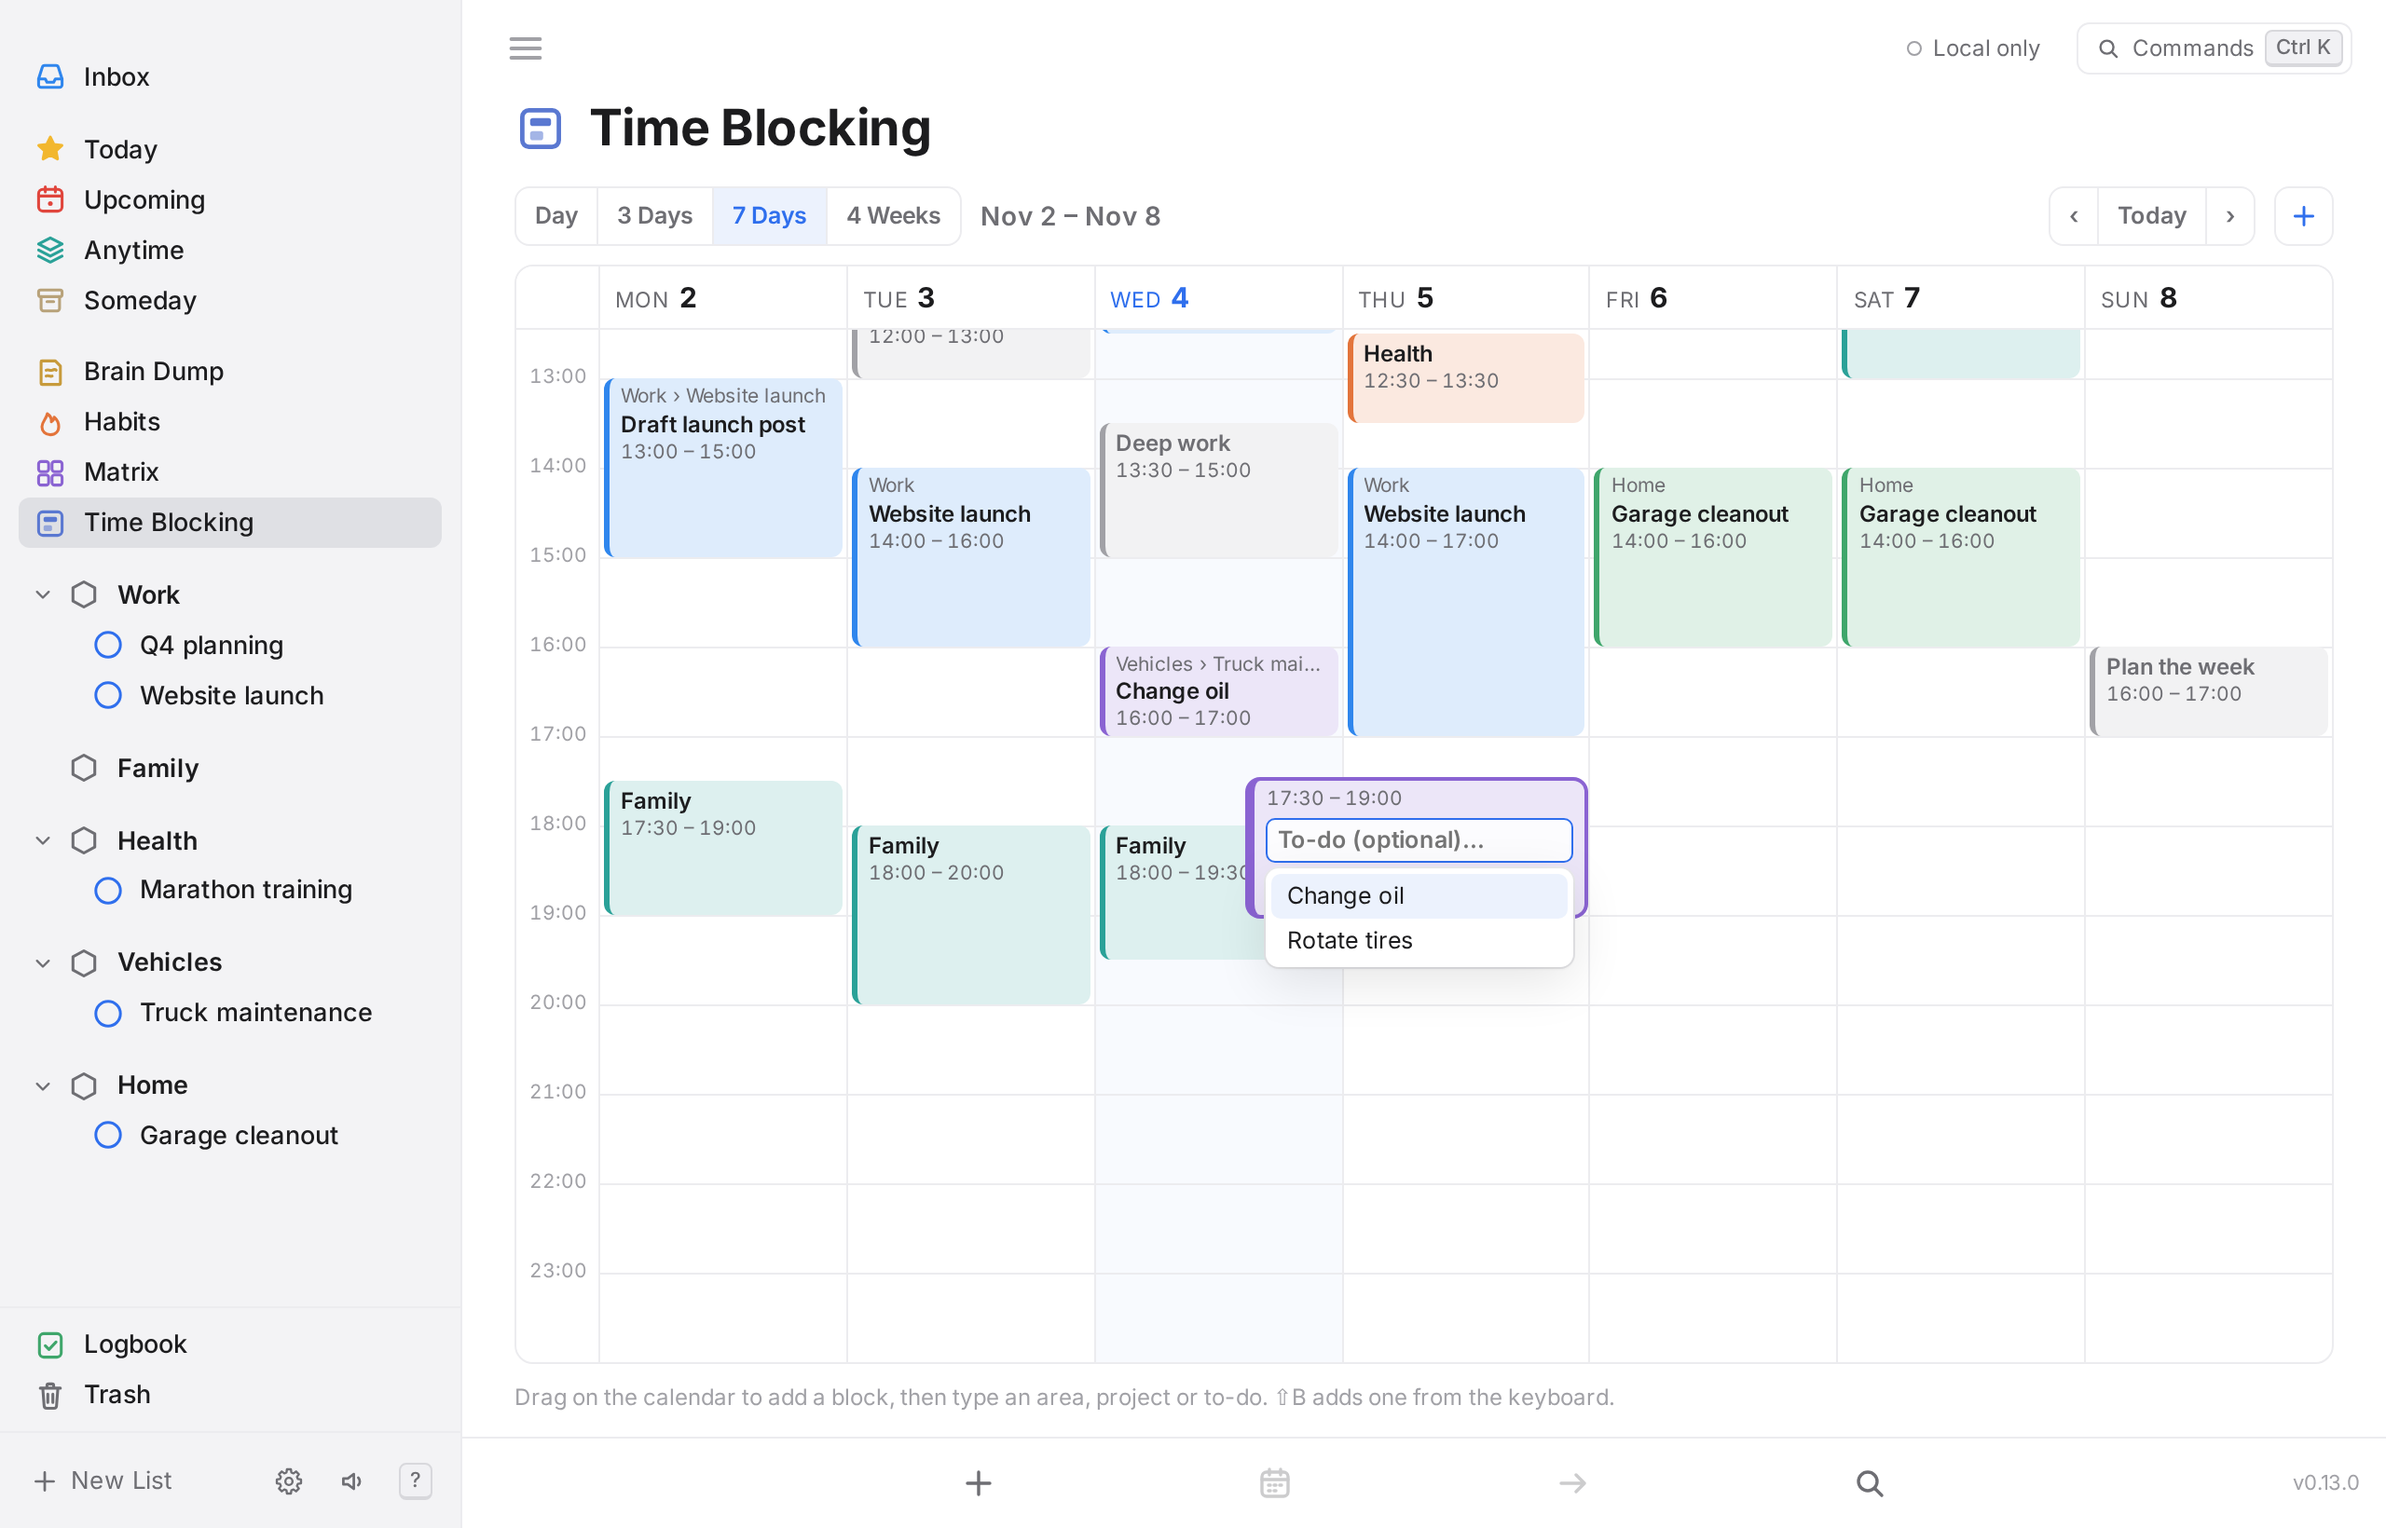
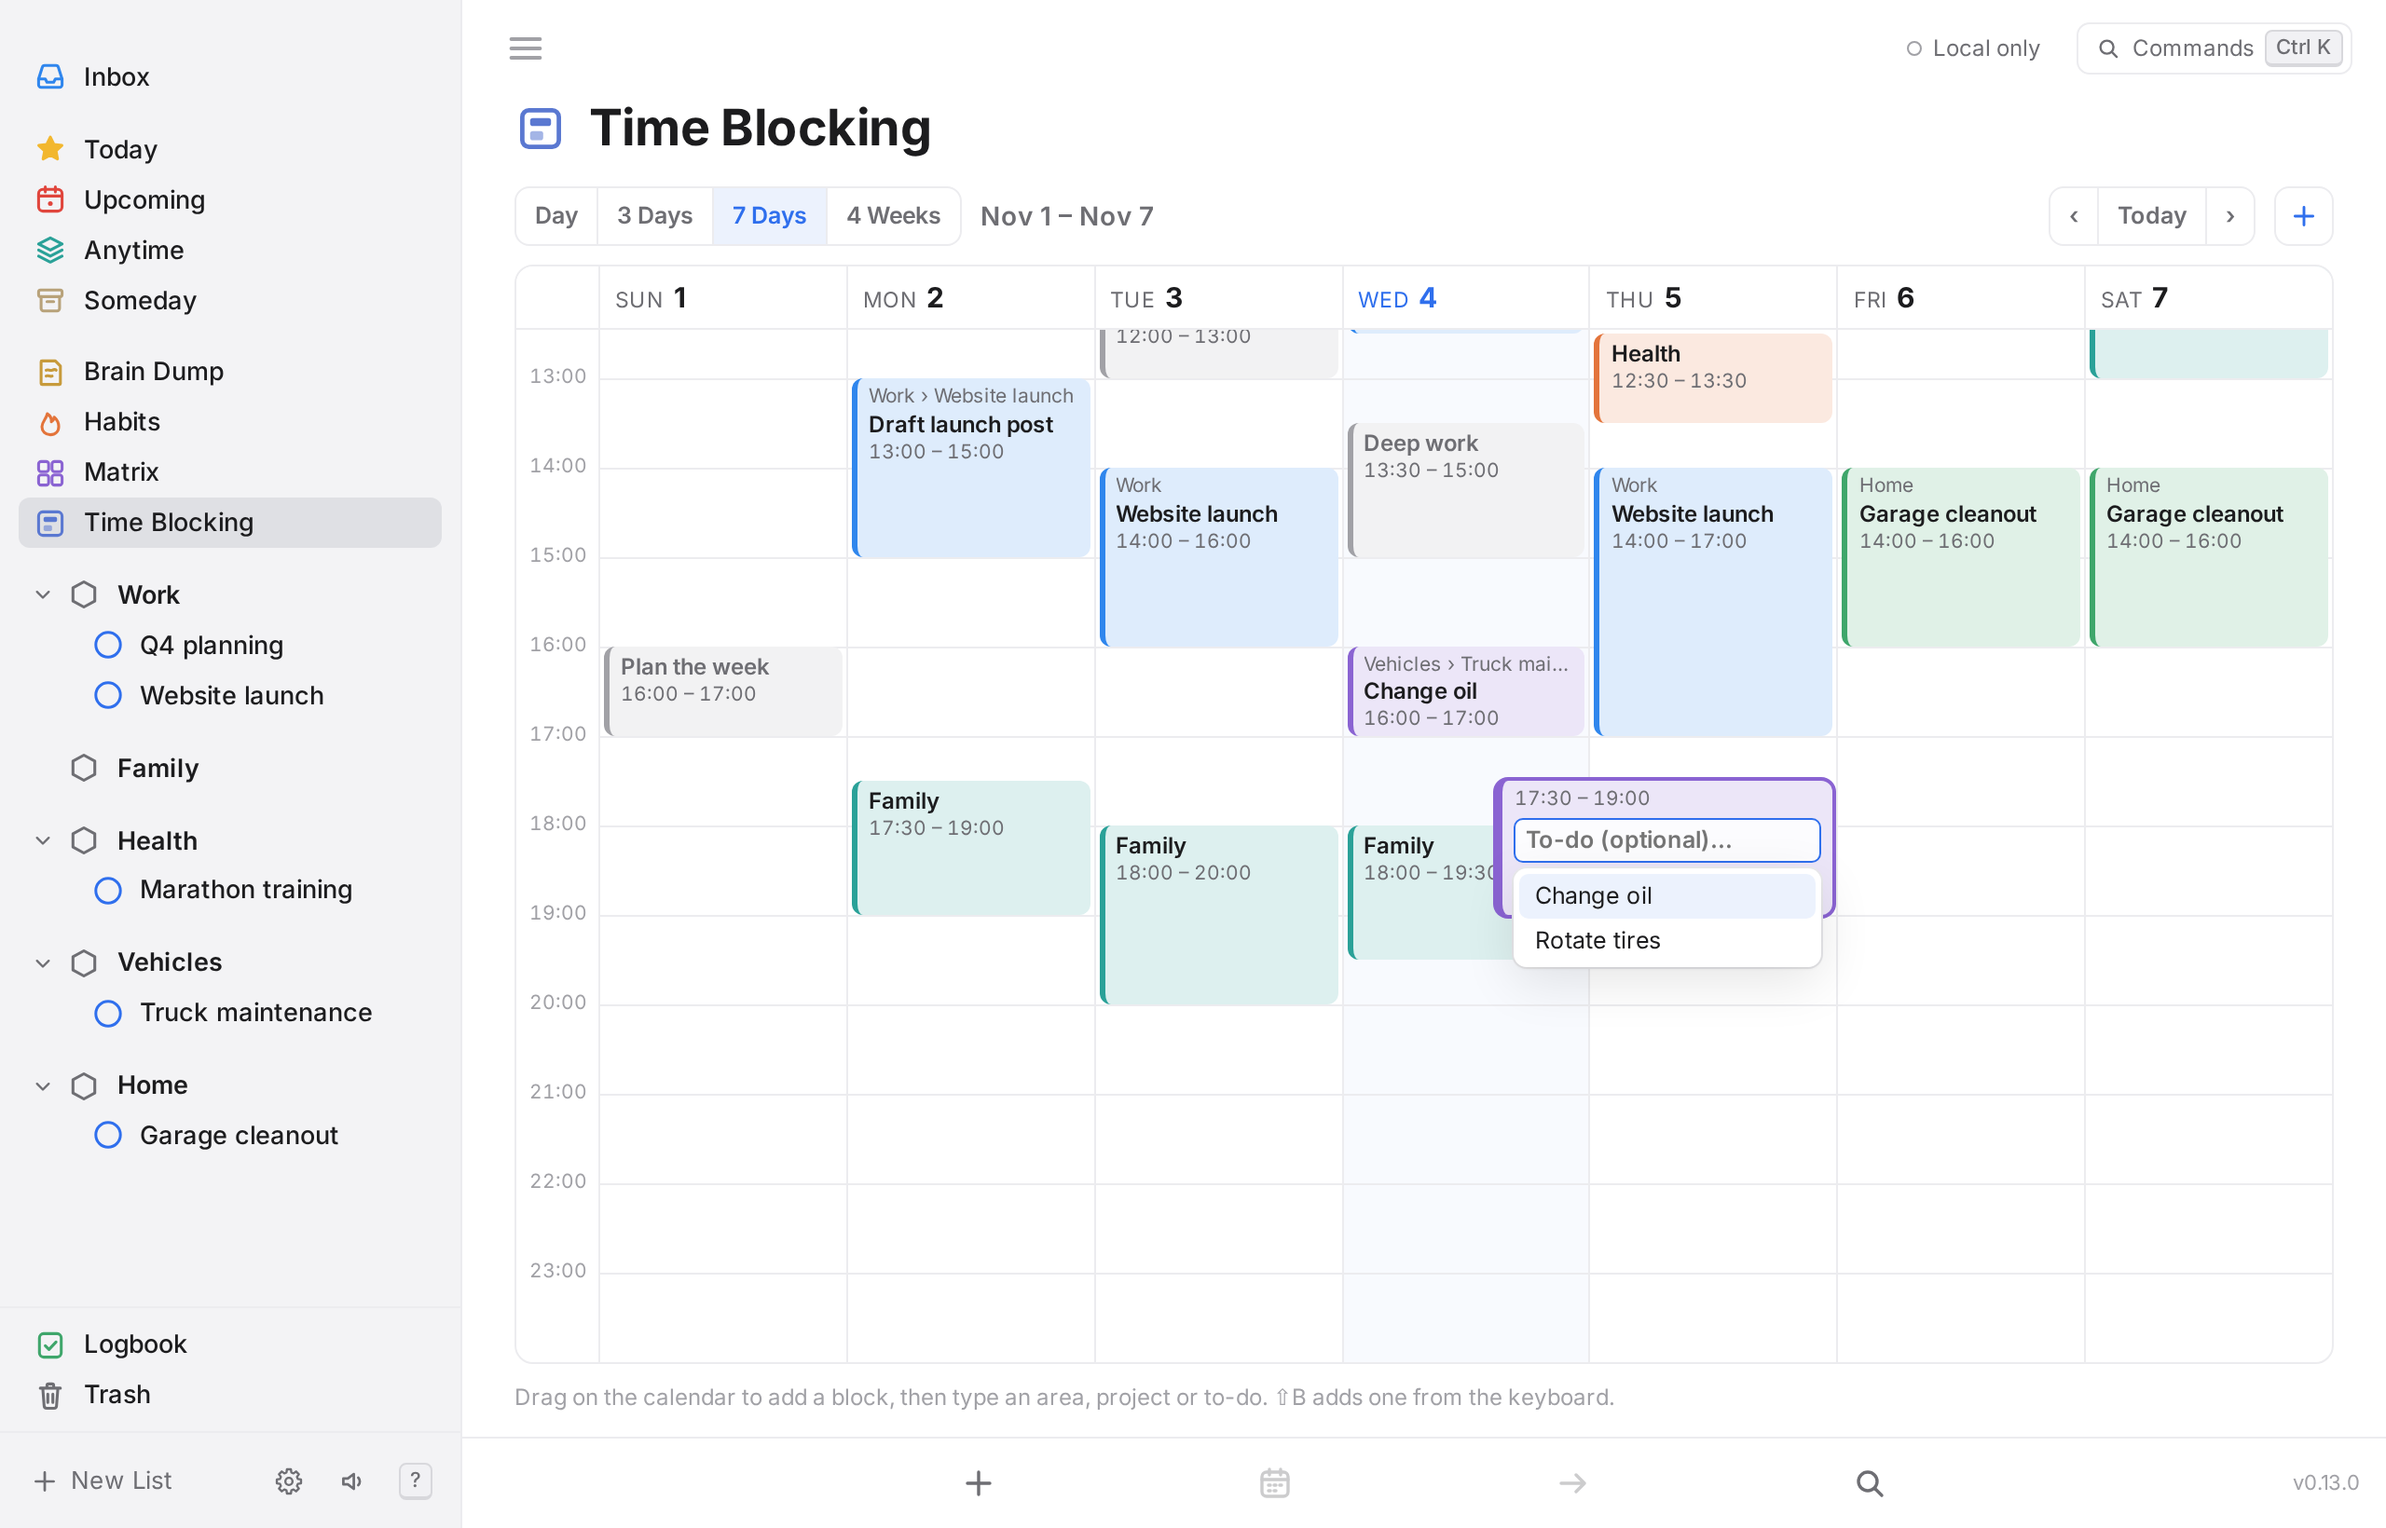
Time Blocking: weeks start on Sunday
7 days and 4 weeks start on the Sunday of the week shown, with Sunday in
the left column; Day and 3 days still start on the chosen day. Screenshots
updated.

diff --git a/src/lib/timeblocks.test.ts b/src/lib/timeblocks.test.ts
@@ -64,15 +64,19 @@ describe('times', () => {
 });
 
 describe('ranges', () => {
-  it('starts day, 3 and 7 days at the anchor and 4 weeks on its Monday', () => {
+  it('starts day and 3 days at the anchor, and 7 days and 4 weeks on its Sunday', () => {
     expect(rangeDays('3day', '2026-10-31')).toEqual(['2026-10-31', '2026-11-01', '2026-11-02']);
+    const week = rangeDays('week', '2026-10-28'); // a Wednesday
+    expect([week[0], week[6]]).toEqual(['2026-10-25', '2026-10-31']);
+    expect(rangeDays('week', '2026-10-25')[0]).toBe('2026-10-25'); // a Sunday stays put
     const four = rangeDays('4week', '2026-10-31'); // a Saturday
-    expect(four[0]).toBe('2026-10-26');
+    expect(four[0]).toBe('2026-10-25');
     expect(four).toHaveLength(28);
   });
 
   it('steps by the length of the range', () => {
     expect(stepAnchor('week', '2026-10-31', 1)).toBe('2026-11-07');
+    expect(rangeDays('week', stepAnchor('week', '2026-10-28', 1))[0]).toBe('2026-11-01');
     expect(stepAnchor('day', '2026-10-31', -1)).toBe('2026-10-30');
   });
 });

diff --git a/src/lib/timeblocks.ts b/src/lib/timeblocks.ts
@@ -80,16 +80,15 @@ export function spanLabel(start: number, end: number): string {
   return `${clock(start)} – ${clock(end)}`;
 }
 
-/** Monday on or before `day`. */
+/** Sunday on or before `day`: weeks start on Sunday. */
 export function weekStart(day: string): string {
-  const wd = parseYmd(day).getDay();
-  return addDays(day, -((wd + 6) % 7));
+  return addDays(day, -parseYmd(day).getDay());
 }
 
-/** The days a range shows. Day / 3 / 7 days start at `anchor`; 4 weeks starts on its Monday. */
+/** The days a range shows. Day and 3 days start at `anchor`; 7 days and 4 weeks start on its week's Sunday. */
 export function rangeDays(range: CalendarRange, anchor: string): string[] {
   const n = RANGES.find((r) => r.id === range)!.days;
-  const first = range === '4week' ? weekStart(anchor) : anchor;
+  const first = range === 'week' || range === '4week' ? weekStart(anchor) : anchor;
   return Array.from({ length: n }, (_, i) => addDays(first, i));
 }
 

diff --git a/src/lib/store.svelte.ts b/src/lib/store.svelte.ts
@@ -1250,7 +1250,7 @@ class Store {
 
   // ---------- time blocking (#99) ----------
 
-  /** Calendar range and the first day it shows (4 weeks starts on that day's Monday). Range is per device. */
+  /** Calendar range and the first day it shows (7 days and 4 weeks start on that week's Sunday). Range is per device. */
   calRange = $state<TB.CalendarRange>(loadCalRange());
   calAnchor = $state(todayFn());
   /** The block the keyboard acts on, and the one whose inline assignment box is open. */

diff --git a/src/lib/ui/TimeBlockView.svelte b/src/lib/ui/TimeBlockView.svelte
@@ -385,7 +385,7 @@
     </div>
   {:else}
     <div class="month">
-      {#each WD.slice(1).concat(WD[0]) as w}<span class="wd">{w}</span>{/each}
+      {#each WD as w}<span class="wd">{w}</span>{/each}
       {#each days as d (d)}
         {@const list = TB.blocksOn(store.timeBlocks, d)}
         <div class="cell" class:is-today={d === store.day} class:past={d < store.day}>

diff --git a/README.md b/README.md
@@ -63,7 +63,7 @@
 - **Structure:** Areas of responsibility → Projects → Headings → To-dos, with notes, checklists, tags, deadlines and repeats.
 - **Repeating to-dos:** every N days, weeks, months or years; chosen days of the week; days of the month (the 1st and 15th, the last day) or an ordinal weekday (the 2nd Tuesday, the last Friday); ending never, after N times or on a date. Set it in quick add (`*mon,thu`) or in the repeat editor (`⇧W`, the repeat button on an open to-do, or right-click), which previews the next dates. Checking one off schedules the next.
 - **This Week** (optional, off by default): everything scheduled or due from today through Sunday, grouped by day; overdue items fold into today. `G W` to open.
-- **Time Blocking** (on by default, can be turned off; prototype): a calendar of blocks of time, in Day, 3 days, 7 days or 4 weeks. Drag on empty space to add a block, drag it to move it, drag its top or bottom edge to resize (long-press first on touch). A new block's inline box autocompletes an area (`VEH` → Vehicles), then optionally a project and a to-do in it, each accepted with `Enter`; `Esc` stops at any level. Type a name that isn't an area for a plain block, like "Taxes". Blocks take their area's color and sync like everything else. `G C` to open, `⇧B` for a new block.
+- **Time Blocking** (on by default, can be turned off; prototype): a calendar of blocks of time, in Day, 3 days, 7 days or 4 weeks (weeks start on Sunday). Drag on empty space to add a block, drag it to move it, drag its top or bottom edge to resize (long-press first on touch). A new block's inline box autocompletes an area (`VEH` → Vehicles), then optionally a project and a to-do in it, each accepted with `Enter`; `Esc` stops at any level. Type a name that isn't an area for a plain block, like "Taxes". Blocks take their area's color and sync like everything else. `G C` to open, `⇧B` for a new block.
 - **Calendar subscription:** the server publishes your time blocks as a read-only calendar named **OpenThings**, so they show in Apple Calendar, Google Calendar, Outlook, Thunderbird or DAVx5. Subscribe to `webcal://<server>/cal/openthings.ics`, or add `https://<server>/dav/` as a CalDAV account. Settings → Calendar subscription has the addresses. See [Calendar subscription](docs/api.md#calendar-subscription).
 - **Features** in Settings turn optional lists on or off per device: Brain Dump and Time Blocking (on by default) and This Week (off).
 - **Brain Dump:** a paper-styled scratch list. Unchecked items fade over 48 hours, then are deleted for good. Check them off, or keep them by moving to the Inbox, Today or any list. Supports sections.
